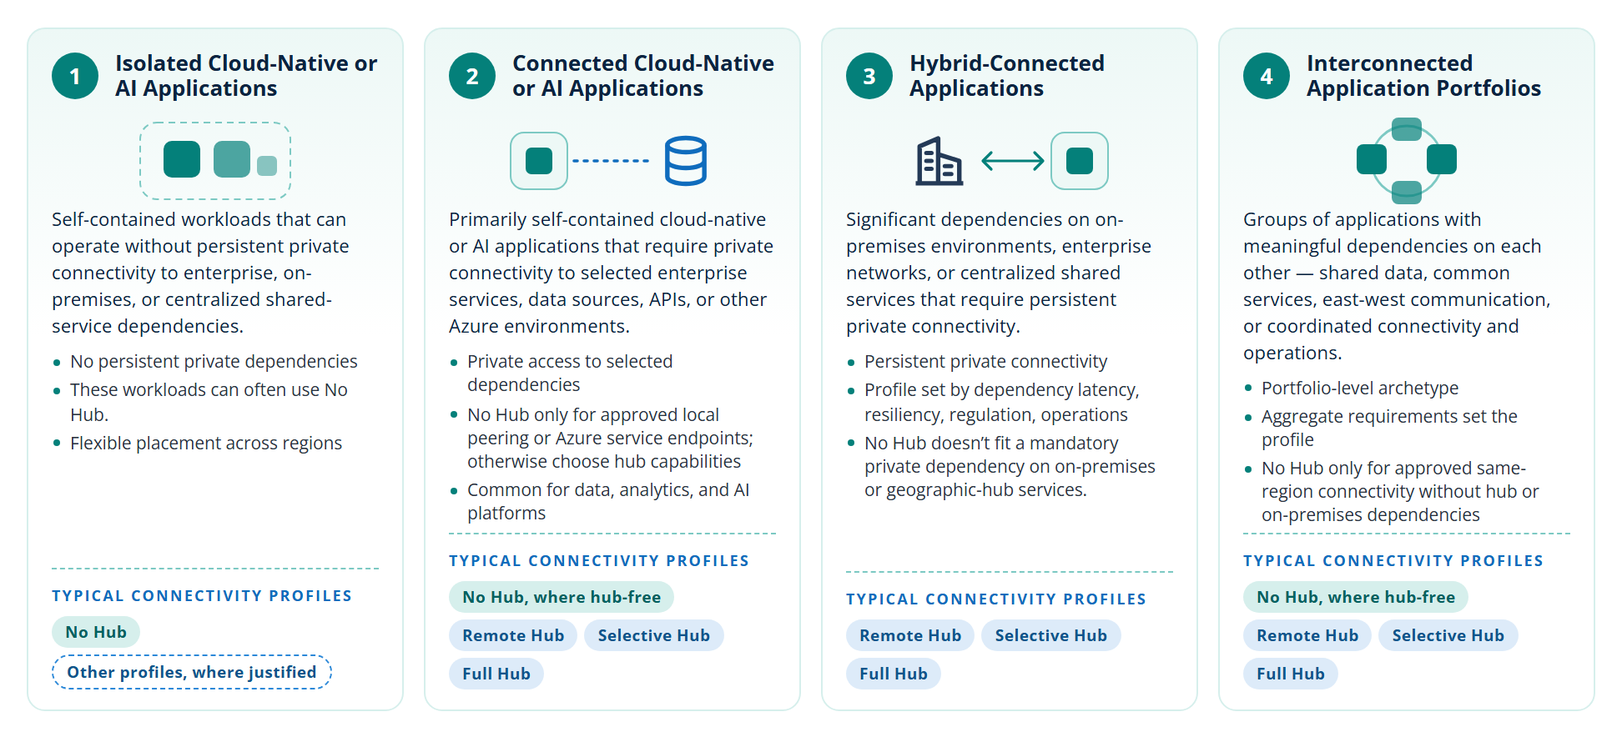
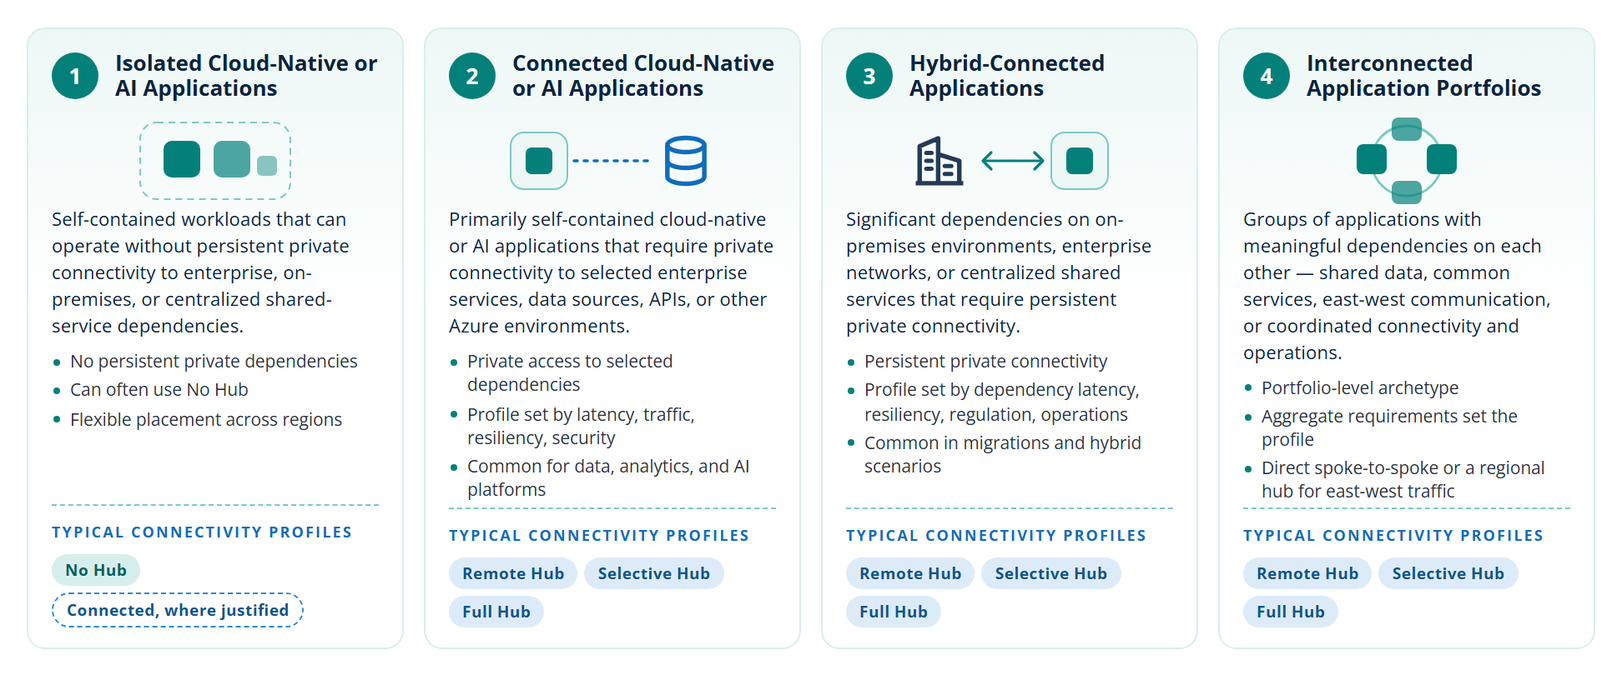
Restore original archetype diagram explanations
Keep the updated archetype order and hub profile names while restoring the original overview wording and profile groupings.

diff --git a/docs/application-landing-zone-archetypes.html b/docs/application-landing-zone-archetypes.html
@@ -107,40 +107,40 @@
 <p>Workload Landing Zone archetypes are a planning abstraction that groups recurring application connectivity and dependency requirements. An archetype describes what an application or application portfolio requires from the platform. It doesn't replace the existing Azure landing-zone hierarchy.</p>
 <p>Assign each workload the closest-fitting archetype and record any material requirements that fall outside it. Portfolio-level dependencies can also affect the platform capabilities needed across several workloads.</p>
 <p>Use archetypes during regional qualification to anticipate the capabilities a candidate region may need to support. Where future workload requirements aren't yet defined, they give you planning guardrails without constraining later placement, which happens once the workload's current requirements, regional capabilities, and platform readiness are known.</p>
-<figure class="fig live" data-fig="application-landing-zone-archetypes" role="img" aria-label="Four archetype cards — isolated cloud-native or AI applications, connected cloud-native or AI applications, hybrid-connected applications, and interconnected application portfolios — each with its defining characteristics and typical connectivity profiles."><div class="fig-tools"><button class="fig-zoom" type="button" aria-label="Expand figure" title="Expand"><svg viewBox="0 0 16 16"><path d="M2 6V2h4M14 6V2h-4M2 10v4h4M14 10v4h-4" fill="none" stroke="currentColor" stroke-width="1.5"/></svg></button><a class="fig-png" href="media/application-landing-zone-archetypes.png" download title="Download image" aria-label="Download image"><svg viewBox="0 0 16 16"><path d="M8 2v8M4.5 6.5 8 10l3.5-3.5M3 13h10" fill="none" stroke="currentColor" stroke-width="1.5"/></svg></a></div><div class="fig-stage"><div class="fig-scale"><div class="wpf" data-w="940" data-h="411" style="width:940px"><div class="figure mt12" role="img" aria-label="Four archetype cards — isolated cloud-native or AI applications, connected cloud-native or AI applications, hybrid-connected applications, and interconnected application portfolios — each with its defining characteristics and typical connectivity profiles.">
+<figure class="fig live" data-fig="application-landing-zone-archetypes" role="img" aria-label="Four archetype cards — isolated cloud-native or AI applications, connected cloud-native or AI applications, hybrid-connected applications, and interconnected application portfolios — each with its defining characteristics and typical connectivity profiles."><div class="fig-tools"><button class="fig-zoom" type="button" aria-label="Expand figure" title="Expand"><svg viewBox="0 0 16 16"><path d="M2 6V2h4M14 6V2h-4M2 10v4h4M14 10v4h-4" fill="none" stroke="currentColor" stroke-width="1.5"/></svg></button><a class="fig-png" href="media/application-landing-zone-archetypes.png" download title="Download image" aria-label="Download image"><svg viewBox="0 0 16 16"><path d="M8 2v8M4.5 6.5 8 10l3.5-3.5M3 13h10" fill="none" stroke="currentColor" stroke-width="1.5"/></svg></a></div><div class="fig-stage"><div class="fig-scale"><div class="wpf" data-w="940" data-h="373" style="width:940px"><div class="figure mt12" role="img" aria-label="Four archetype cards — isolated cloud-native or AI applications, connected cloud-native or AI applications, hybrid-connected applications, and interconnected application portfolios — each with its defining characteristics and typical connectivity profiles.">
     <div class="ar4">
       <div class="ac">
         <div class="ah"><span class="an">1</span><span class="at">Isolated Cloud-Native or AI Applications</span></div>
         <div class="ag"><svg width="150" height="54" viewBox="0 0 150 54"><rect x="30" y="4" width="90" height="46" rx="10" fill="none" stroke="#7CC9C3" stroke-dasharray="4 3"></rect><rect x="44" y="15" width="22" height="22" rx="5" fill="#04807A"></rect><rect x="74" y="15" width="22" height="22" rx="5" fill="#04807A" opacity=".7"></rect><rect x="100" y="24" width="12" height="12" rx="3" fill="#04807A" opacity=".45"></rect></svg></div>
         <div class="ad">Self-contained workloads that can operate without persistent private connectivity to enterprise, on-premises, or centralized shared-service dependencies.</div>
-        <ul><li>No persistent private dependencies</li><li>These workloads can often use No Hub.</li><li>Flexible placement across regions</li></ul>
-        <div class="ap"><div class="cap">Typical connectivity profiles</div><div class="pr"><span class="chip teal">No Hub</span><span class="chip out">Other profiles, where justified</span></div></div>
+        <ul><li>No persistent private dependencies</li><li>Can often use No Hub</li><li>Flexible placement across regions</li></ul>
+        <div class="ap"><div class="cap">Typical connectivity profiles</div><div class="pr"><span class="chip teal">No Hub</span><span class="chip out">Connected, where justified</span></div></div>
       </div>
       <div class="ac">
         <div class="ah"><span class="an">2</span><span class="at">Connected Cloud-Native or AI Applications</span></div>
         <div class="ag"><svg width="150" height="54" viewBox="0 0 150 54"><rect x="14" y="10" width="34" height="34" rx="8" fill="#EDF8F6" stroke="#7CC9C3"></rect><rect x="23" y="19" width="16" height="16" rx="3.5" fill="#04807A"></rect><path d="M52 27h44" stroke="#0F6CBD" stroke-width="1.8" stroke-dasharray="2 4" stroke-linecap="round"></path><g color="#0F6CBD"><use href="#i-data" x="100" y="8" width="38" height="38"></use></g></svg></div>
         <div class="ad">Primarily self-contained cloud-native or AI applications that require private connectivity to selected enterprise services, data sources, APIs, or other Azure environments.</div>
-        <ul><li>Private access to selected dependencies</li><li>No Hub only for approved local peering or Azure service endpoints; otherwise choose hub capabilities</li><li>Common for data, analytics, and AI platforms</li></ul>
-        <div class="ap"><div class="cap">Typical connectivity profiles</div><div class="pr"><span class="chip teal">No Hub, where hub-free</span><span class="chip blue">Remote Hub</span><span class="chip blue">Selective Hub</span><span class="chip blue">Full Hub</span></div></div>
+        <ul><li>Private access to selected dependencies</li><li>Profile set by latency, traffic, resiliency, security</li><li>Common for data, analytics, and AI platforms</li></ul>
+        <div class="ap"><div class="cap">Typical connectivity profiles</div><div class="pr"><span class="chip blue">Remote Hub</span><span class="chip blue">Selective Hub</span><span class="chip blue">Full Hub</span></div></div>
       </div>
       <div class="ac">
         <div class="ah"><span class="an">3</span><span class="at">Hybrid-Connected Applications</span></div>
         <div class="ag"><svg width="150" height="54" viewBox="0 0 150 54"><g color="#243A57"><use href="#i-building" x="14" y="8" width="38" height="38"></use></g><path d="M60 27h34" stroke="#04807A" stroke-width="1.6"></path><path d="M64 22l-5 5 5 5M90 22l5 5-5 5" fill="none" stroke="#04807A" stroke-width="1.6" stroke-linecap="round" stroke-linejoin="round"></path><rect x="100" y="10" width="34" height="34" rx="8" fill="#EDF8F6" stroke="#7CC9C3"></rect><rect x="109" y="19" width="16" height="16" rx="3.5" fill="#04807A"></rect></svg></div>
         <div class="ad">Significant dependencies on on-premises environments, enterprise networks, or centralized shared services that require persistent private connectivity.</div>
-        <ul><li>Persistent private connectivity</li><li>Profile set by dependency latency, resiliency, regulation, operations</li><li>No Hub doesn’t fit a mandatory private dependency on on-premises or geographic-hub services.</li></ul>
+        <ul><li>Persistent private connectivity</li><li>Profile set by dependency latency, resiliency, regulation, operations</li><li>Common in migrations and hybrid scenarios</li></ul>
         <div class="ap"><div class="cap">Typical connectivity profiles</div><div class="pr"><span class="chip blue">Remote Hub</span><span class="chip blue">Selective Hub</span><span class="chip blue">Full Hub</span></div></div>
       </div>
       <div class="ac">
         <div class="ah"><span class="an">4</span><span class="at">Interconnected Application Portfolios</span></div>
         <div class="ag"><svg width="150" height="54" viewBox="0 0 150 54"><circle cx="75" cy="27" r="21" fill="none" stroke="#7CC9C3" stroke-width="1.4"></circle><rect x="45" y="17" width="18" height="18" rx="4" fill="#04807A"></rect><rect x="87" y="17" width="18" height="18" rx="4" fill="#04807A"></rect><rect x="66" y="1" width="18" height="14" rx="4" fill="#04807A" opacity=".7"></rect><rect x="66" y="39" width="18" height="14" rx="4" fill="#04807A" opacity=".7"></rect></svg></div>
         <div class="ad">Groups of applications with meaningful dependencies on each other — shared data, common services, east-west communication, or coordinated connectivity and operations.</div>
-        <ul><li>Portfolio-level archetype</li><li>Aggregate requirements set the profile</li><li>No Hub only for approved same-region connectivity without hub or on-premises dependencies</li></ul>
-        <div class="ap"><div class="cap">Typical connectivity profiles</div><div class="pr"><span class="chip teal">No Hub, where hub-free</span><span class="chip blue">Remote Hub</span><span class="chip blue">Selective Hub</span><span class="chip blue">Full Hub</span></div></div>
+        <ul><li>Portfolio-level archetype</li><li>Aggregate requirements set the profile</li><li>Direct spoke-to-spoke or a regional hub for east-west traffic</li></ul>
+        <div class="ap"><div class="cap">Typical connectivity profiles</div><div class="pr"><span class="chip blue">Remote Hub</span><span class="chip blue">Selective Hub</span><span class="chip blue">Full Hub</span></div></div>
       </div>
     </div>
     
   </div></div>
-</div></div><figcaption>The four archetypes, ordered by increasing platform connectivity and dependency complexity. This is not a maturity model or a measure of application sophistication.</figcaption></figure>
+</div></div><figcaption>The four archetypes, grouped by the platform connectivity and dependency capabilities each requires.</figcaption></figure>
 <h2 id="isolated-cloud-native-or-ai-applications">Isolated Cloud-Native or AI Applications<a class="anchor" href="#isolated-cloud-native-or-ai-applications" aria-label="Link to this section">#</a></h2>
 <p>Self-contained workloads that can operate without persistent private connectivity to enterprise, on-premises, or centralized shared-service dependencies.</p>
 <p>These workloads can often use <strong>No Hub</strong>. A connected profile may still be selected where platform requirements such as private management, security, data access, or centralized services justify connectivity.</p>

diff --git a/site/figures/application-landing-zone-archetypes.html b/site/figures/application-landing-zone-archetypes.html
@@ -1,33 +1,33 @@
 <!-- extracted from whitepaper #fig12; regenerate with site/tools/extract_figures.py -->
-<div class="wpf" data-w="940" data-h="411" style="width:940px"><div class="figure mt12" role="img" aria-label="Four archetype cards — isolated cloud-native or AI applications, connected cloud-native or AI applications, hybrid-connected applications, and interconnected application portfolios — each with its defining characteristics and typical connectivity profiles.">
+<div class="wpf" data-w="940" data-h="373" style="width:940px"><div class="figure mt12" role="img" aria-label="Four archetype cards — isolated cloud-native or AI applications, connected cloud-native or AI applications, hybrid-connected applications, and interconnected application portfolios — each with its defining characteristics and typical connectivity profiles.">
     <div class="ar4">
       <div class="ac">
         <div class="ah"><span class="an">1</span><span class="at">Isolated Cloud-Native or AI Applications</span></div>
         <div class="ag"><svg width="150" height="54" viewBox="0 0 150 54"><rect x="30" y="4" width="90" height="46" rx="10" fill="none" stroke="#7CC9C3" stroke-dasharray="4 3"></rect><rect x="44" y="15" width="22" height="22" rx="5" fill="#04807A"></rect><rect x="74" y="15" width="22" height="22" rx="5" fill="#04807A" opacity=".7"></rect><rect x="100" y="24" width="12" height="12" rx="3" fill="#04807A" opacity=".45"></rect></svg></div>
         <div class="ad">Self-contained workloads that can operate without persistent private connectivity to enterprise, on-premises, or centralized shared-service dependencies.</div>
-        <ul><li>No persistent private dependencies</li><li>These workloads can often use No Hub.</li><li>Flexible placement across regions</li></ul>
-        <div class="ap"><div class="cap">Typical connectivity profiles</div><div class="pr"><span class="chip teal">No Hub</span><span class="chip out">Other profiles, where justified</span></div></div>
+        <ul><li>No persistent private dependencies</li><li>Can often use No Hub</li><li>Flexible placement across regions</li></ul>
+        <div class="ap"><div class="cap">Typical connectivity profiles</div><div class="pr"><span class="chip teal">No Hub</span><span class="chip out">Connected, where justified</span></div></div>
       </div>
       <div class="ac">
         <div class="ah"><span class="an">2</span><span class="at">Connected Cloud-Native or AI Applications</span></div>
         <div class="ag"><svg width="150" height="54" viewBox="0 0 150 54"><rect x="14" y="10" width="34" height="34" rx="8" fill="#EDF8F6" stroke="#7CC9C3"></rect><rect x="23" y="19" width="16" height="16" rx="3.5" fill="#04807A"></rect><path d="M52 27h44" stroke="#0F6CBD" stroke-width="1.8" stroke-dasharray="2 4" stroke-linecap="round"></path><g color="#0F6CBD"><use href="#i-data" x="100" y="8" width="38" height="38"></use></g></svg></div>
         <div class="ad">Primarily self-contained cloud-native or AI applications that require private connectivity to selected enterprise services, data sources, APIs, or other Azure environments.</div>
-        <ul><li>Private access to selected dependencies</li><li>No Hub only for approved local peering or Azure service endpoints; otherwise choose hub capabilities</li><li>Common for data, analytics, and AI platforms</li></ul>
-        <div class="ap"><div class="cap">Typical connectivity profiles</div><div class="pr"><span class="chip teal">No Hub, where hub-free</span><span class="chip blue">Remote Hub</span><span class="chip blue">Selective Hub</span><span class="chip blue">Full Hub</span></div></div>
+        <ul><li>Private access to selected dependencies</li><li>Profile set by latency, traffic, resiliency, security</li><li>Common for data, analytics, and AI platforms</li></ul>
+        <div class="ap"><div class="cap">Typical connectivity profiles</div><div class="pr"><span class="chip blue">Remote Hub</span><span class="chip blue">Selective Hub</span><span class="chip blue">Full Hub</span></div></div>
       </div>
       <div class="ac">
         <div class="ah"><span class="an">3</span><span class="at">Hybrid-Connected Applications</span></div>
         <div class="ag"><svg width="150" height="54" viewBox="0 0 150 54"><g color="#243A57"><use href="#i-building" x="14" y="8" width="38" height="38"></use></g><path d="M60 27h34" stroke="#04807A" stroke-width="1.6"></path><path d="M64 22l-5 5 5 5M90 22l5 5-5 5" fill="none" stroke="#04807A" stroke-width="1.6" stroke-linecap="round" stroke-linejoin="round"></path><rect x="100" y="10" width="34" height="34" rx="8" fill="#EDF8F6" stroke="#7CC9C3"></rect><rect x="109" y="19" width="16" height="16" rx="3.5" fill="#04807A"></rect></svg></div>
         <div class="ad">Significant dependencies on on-premises environments, enterprise networks, or centralized shared services that require persistent private connectivity.</div>
-        <ul><li>Persistent private connectivity</li><li>Profile set by dependency latency, resiliency, regulation, operations</li><li>No Hub doesn’t fit a mandatory private dependency on on-premises or geographic-hub services.</li></ul>
+        <ul><li>Persistent private connectivity</li><li>Profile set by dependency latency, resiliency, regulation, operations</li><li>Common in migrations and hybrid scenarios</li></ul>
         <div class="ap"><div class="cap">Typical connectivity profiles</div><div class="pr"><span class="chip blue">Remote Hub</span><span class="chip blue">Selective Hub</span><span class="chip blue">Full Hub</span></div></div>
       </div>
       <div class="ac">
         <div class="ah"><span class="an">4</span><span class="at">Interconnected Application Portfolios</span></div>
         <div class="ag"><svg width="150" height="54" viewBox="0 0 150 54"><circle cx="75" cy="27" r="21" fill="none" stroke="#7CC9C3" stroke-width="1.4"></circle><rect x="45" y="17" width="18" height="18" rx="4" fill="#04807A"></rect><rect x="87" y="17" width="18" height="18" rx="4" fill="#04807A"></rect><rect x="66" y="1" width="18" height="14" rx="4" fill="#04807A" opacity=".7"></rect><rect x="66" y="39" width="18" height="14" rx="4" fill="#04807A" opacity=".7"></rect></svg></div>
         <div class="ad">Groups of applications with meaningful dependencies on each other — shared data, common services, east-west communication, or coordinated connectivity and operations.</div>
-        <ul><li>Portfolio-level archetype</li><li>Aggregate requirements set the profile</li><li>No Hub only for approved same-region connectivity without hub or on-premises dependencies</li></ul>
-        <div class="ap"><div class="cap">Typical connectivity profiles</div><div class="pr"><span class="chip teal">No Hub, where hub-free</span><span class="chip blue">Remote Hub</span><span class="chip blue">Selective Hub</span><span class="chip blue">Full Hub</span></div></div>
+        <ul><li>Portfolio-level archetype</li><li>Aggregate requirements set the profile</li><li>Direct spoke-to-spoke or a regional hub for east-west traffic</li></ul>
+        <div class="ap"><div class="cap">Typical connectivity profiles</div><div class="pr"><span class="chip blue">Remote Hub</span><span class="chip blue">Selective Hub</span><span class="chip blue">Full Hub</span></div></div>
       </div>
     </div>
     

diff --git a/whitepaper/pages/09-archetypes.html b/whitepaper/pages/09-archetypes.html
@@ -43,32 +43,32 @@
         <div class="ah"><span class="an">1</span><span class="at">Isolated Cloud-Native or AI Applications</span></div>
         <div class="ag"><svg width="150" height="54" viewBox="0 0 150 54"><rect x="30" y="4" width="90" height="46" rx="10" fill="none" stroke="#7CC9C3" stroke-dasharray="4 3"/><rect x="44" y="15" width="22" height="22" rx="5" fill="#04807A"/><rect x="74" y="15" width="22" height="22" rx="5" fill="#04807A" opacity=".7"/><rect x="100" y="24" width="12" height="12" rx="3" fill="#04807A" opacity=".45"/></svg></div>
         <div class="ad">Self-contained workloads that can operate without persistent private connectivity to enterprise, on-premises, or centralized shared-service dependencies.</div>
-        <ul><li>No persistent private dependencies</li><li>These workloads can often use No Hub.</li><li>Flexible placement across regions</li></ul>
-        <div class="ap"><div class="cap">Typical connectivity profiles</div><div class="pr"><span class="chip teal">No Hub</span><span class="chip out">Other profiles, where justified</span></div></div>
+        <ul><li>No persistent private dependencies</li><li>Can often use No Hub</li><li>Flexible placement across regions</li></ul>
+        <div class="ap"><div class="cap">Typical connectivity profiles</div><div class="pr"><span class="chip teal">No Hub</span><span class="chip out">Connected, where justified</span></div></div>
       </div>
       <div class="ac">
         <div class="ah"><span class="an">2</span><span class="at">Connected Cloud-Native or AI Applications</span></div>
         <div class="ag"><svg width="150" height="54" viewBox="0 0 150 54"><rect x="14" y="10" width="34" height="34" rx="8" fill="#EDF8F6" stroke="#7CC9C3"/><rect x="23" y="19" width="16" height="16" rx="3.5" fill="#04807A"/><path d="M52 27h44" stroke="#0F6CBD" stroke-width="1.8" stroke-dasharray="2 4" stroke-linecap="round"/><g color="#0F6CBD"><use href="#i-data" x="100" y="8" width="38" height="38"/></g></svg></div>
         <div class="ad">Primarily self-contained cloud-native or AI applications that require private connectivity to selected enterprise services, data sources, APIs, or other Azure environments.</div>
-        <ul><li>Private access to selected dependencies</li><li>No Hub only for approved local peering or Azure service endpoints; otherwise choose hub capabilities</li><li>Common for data, analytics, and AI platforms</li></ul>
-        <div class="ap"><div class="cap">Typical connectivity profiles</div><div class="pr"><span class="chip teal">No Hub, where hub-free</span><span class="chip blue">Remote Hub</span><span class="chip blue">Selective Hub</span><span class="chip blue">Full Hub</span></div></div>
+        <ul><li>Private access to selected dependencies</li><li>Profile set by latency, traffic, resiliency, security</li><li>Common for data, analytics, and AI platforms</li></ul>
+        <div class="ap"><div class="cap">Typical connectivity profiles</div><div class="pr"><span class="chip blue">Remote Hub</span><span class="chip blue">Selective Hub</span><span class="chip blue">Full Hub</span></div></div>
       </div>
       <div class="ac">
         <div class="ah"><span class="an">3</span><span class="at">Hybrid-Connected Applications</span></div>
         <div class="ag"><svg width="150" height="54" viewBox="0 0 150 54"><g color="#243A57"><use href="#i-building" x="14" y="8" width="38" height="38"/></g><path d="M60 27h34" stroke="#04807A" stroke-width="1.6"/><path d="M64 22l-5 5 5 5M90 22l5 5-5 5" fill="none" stroke="#04807A" stroke-width="1.6" stroke-linecap="round" stroke-linejoin="round"/><rect x="100" y="10" width="34" height="34" rx="8" fill="#EDF8F6" stroke="#7CC9C3"/><rect x="109" y="19" width="16" height="16" rx="3.5" fill="#04807A"/></svg></div>
         <div class="ad">Significant dependencies on on-premises environments, enterprise networks, or centralized shared services that require persistent private connectivity.</div>
-        <ul><li>Persistent private connectivity</li><li>Profile set by dependency latency, resiliency, regulation, operations</li><li>No Hub doesn’t fit a mandatory private dependency on on-premises or geographic-hub services.</li></ul>
+        <ul><li>Persistent private connectivity</li><li>Profile set by dependency latency, resiliency, regulation, operations</li><li>Common in migrations and hybrid scenarios</li></ul>
         <div class="ap"><div class="cap">Typical connectivity profiles</div><div class="pr"><span class="chip blue">Remote Hub</span><span class="chip blue">Selective Hub</span><span class="chip blue">Full Hub</span></div></div>
       </div>
       <div class="ac">
         <div class="ah"><span class="an">4</span><span class="at">Interconnected Application Portfolios</span></div>
         <div class="ag"><svg width="150" height="54" viewBox="0 0 150 54"><circle cx="75" cy="27" r="21" fill="none" stroke="#7CC9C3" stroke-width="1.4"/><rect x="45" y="17" width="18" height="18" rx="4" fill="#04807A"/><rect x="87" y="17" width="18" height="18" rx="4" fill="#04807A"/><rect x="66" y="1" width="18" height="14" rx="4" fill="#04807A" opacity=".7"/><rect x="66" y="39" width="18" height="14" rx="4" fill="#04807A" opacity=".7"/></svg></div>
         <div class="ad">Groups of applications with meaningful dependencies on each other — shared data, common services, east-west communication, or coordinated connectivity and operations.</div>
-        <ul><li>Portfolio-level archetype</li><li>Aggregate requirements set the profile</li><li>No Hub only for approved same-region connectivity without hub or on-premises dependencies</li></ul>
-        <div class="ap"><div class="cap">Typical connectivity profiles</div><div class="pr"><span class="chip teal">No Hub, where hub-free</span><span class="chip blue">Remote Hub</span><span class="chip blue">Selective Hub</span><span class="chip blue">Full Hub</span></div></div>
+        <ul><li>Portfolio-level archetype</li><li>Aggregate requirements set the profile</li><li>Direct spoke-to-spoke or a regional hub for east-west traffic</li></ul>
+        <div class="ap"><div class="cap">Typical connectivity profiles</div><div class="pr"><span class="chip blue">Remote Hub</span><span class="chip blue">Selective Hub</span><span class="chip blue">Full Hub</span></div></div>
       </div>
     </div>
-    <div class="figcap"><span class="fn">Figure 12</span><span class="ft"><b>The four archetypes, ordered by increasing platform connectivity and dependency complexity.</b> This is not a maturity model or a measure of application sophistication. See <span data-figref="fig13">Figure 13</span> for profile relationships.</span></div>
+    <div class="figcap"><span class="fn">Figure 12</span><span class="ft"><b>Four Workload Landing Zone archetypes.</b> Grouped by the platform connectivity and dependency capabilities each requires. See <span data-figref="fig13">Figure 13</span> for profile relationships.</span></div>
   </div>
 </div>
 </section>

diff --git a/site/tools/test_archetypes.py b/site/tools/test_archetypes.py
@@ -31,7 +31,7 @@ class ArchetypeTests(unittest.TestCase):
         self.assertEqual(summary["choices"][0]["options"], PROFILES)
         article = self.read("content/application-landing-zone-archetypes.md")
         self.assertEqual(re.findall(r"^## (.+)$", article, re.M)[:4], ARCHETYPES)
-        self.assertIn("not a maturity model", article)
+        self.assertIn("The four archetypes, grouped by the platform connectivity and dependency capabilities each requires.", article)
         self.assertIn("without a geographic hub or on-premises path", article)
 
     def test_publication_cards_and_matrix_use_the_same_order(self):
@@ -57,6 +57,34 @@ class ArchetypeTests(unittest.TestCase):
         self.assertIn('class="mk none"', first_cells[2])
         self.assertIn('class="mk cond"', first_cells[3])
         self.assertIn("without hub or on-premises dependencies", rows[3])
+
+    def test_overview_picture_preserves_original_explanations(self):
+        source = self.read("whitepaper/pages/09-archetypes.html")
+        bullets = [
+            [text(item) for item in re.findall(r"<li>(.*?)</li>", group)]
+            for group in re.findall(r"<ul>(.*?)</ul>", source)
+        ]
+        self.assertEqual(bullets, [
+            ["No persistent private dependencies", "Can often use No Hub",
+             "Flexible placement across regions"],
+            ["Private access to selected dependencies",
+             "Profile set by latency, traffic, resiliency, security",
+             "Common for data, analytics, and AI platforms"],
+            ["Persistent private connectivity",
+             "Profile set by dependency latency, resiliency, regulation, operations",
+             "Common in migrations and hybrid scenarios"],
+            ["Portfolio-level archetype", "Aggregate requirements set the profile",
+             "Direct spoke-to-spoke or a regional hub for east-west traffic"],
+        ])
+        profiles = [
+            [text(chip) for chip in re.findall(r"<span[^>]*>(.*?)</span>", group)]
+            for group in re.findall(r'<div class="pr">(.*?)</div>', source)
+        ]
+        self.assertEqual(profiles, [
+            ["No Hub", "Connected, where justified"], PROFILES[1:],
+            PROFILES[1:], PROFILES[1:],
+        ])
+        self.assertIn("Grouped by the platform connectivity and dependency capabilities each requires.", source)
 
     def test_qualification_statuses_move_with_their_archetype_columns(self):
         source = self.read("whitepaper/pages/10b-outcome.html")

diff --git a/content/application-landing-zone-archetypes.md b/content/application-landing-zone-archetypes.md
@@ -15,7 +15,7 @@ Use archetypes during regional qualification to anticipate the capabilities a ca
 
 :::image type="content" source="./media/application-landing-zone-archetypes.png" alt-text="Four archetype cards — isolated cloud-native or AI applications, connected cloud-native or AI applications, hybrid-connected applications, and interconnected application portfolios — each with its defining characteristics and typical connectivity profiles." lightbox="./media/application-landing-zone-archetypes.png":::
 
-*The four archetypes, ordered by increasing platform connectivity and dependency complexity. This is not a maturity model or a measure of application sophistication.*
+*The four archetypes, grouped by the platform connectivity and dependency capabilities each requires.*
 
 ## Isolated Cloud-Native or AI Applications
 
